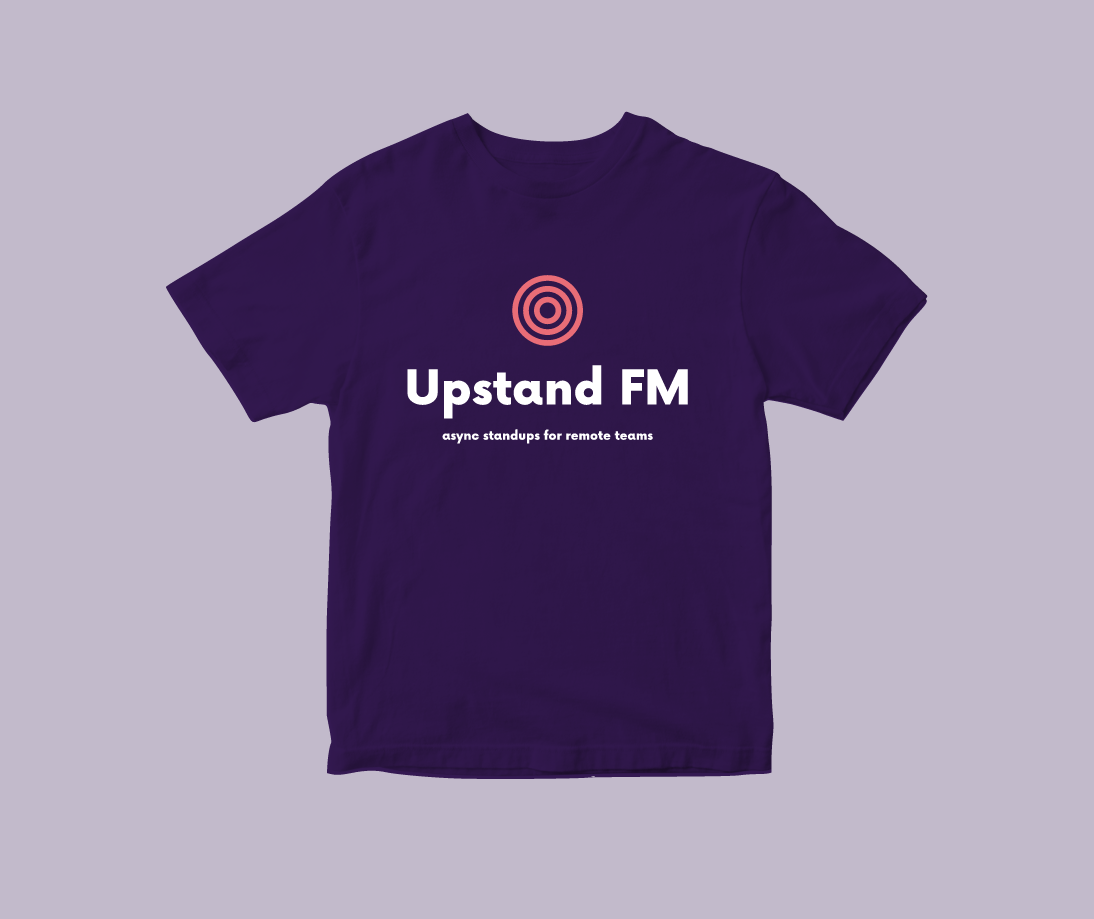
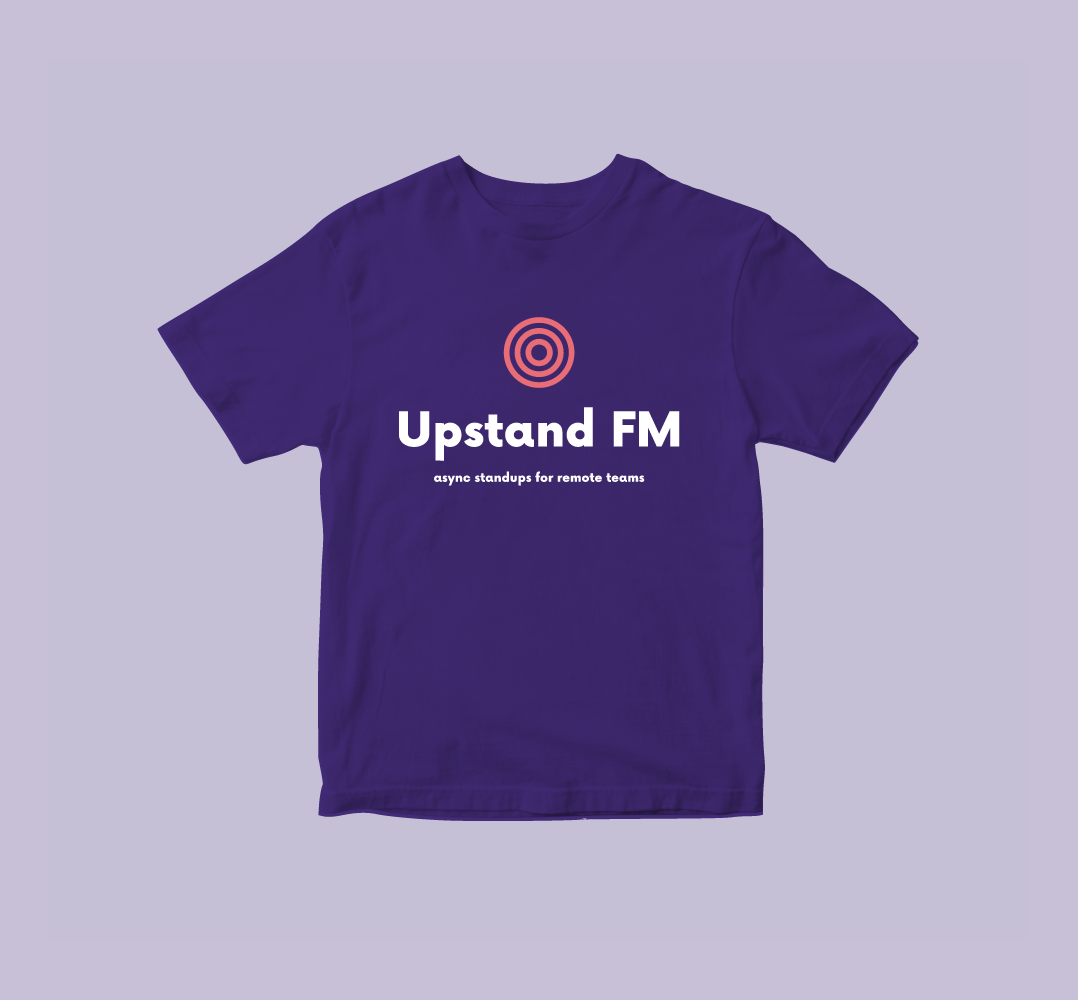
Update assets

diff --git a/README.md b/README.md
@@ -11,8 +11,8 @@ The colors and logo have been generated with [Namecheap Logomaker](https://www.n
 
 ## Colors
 
-- Logo color is **coral**: `#e96d77`
-- Primary background color is **deep purple**: `#341952`
+- Primary color is **purple**: `#422b77`
+- Accent color is **coral**: `#e96d77`
 
 ## Logo
 
@@ -22,20 +22,6 @@ It combines the concepts of a "record button" and "broadcasting waves".
 
 Multiple variations of logo/name/tagline are available:
 
-### Logo and name below each other
-
-![Logo and name below](./logo-name-below/cover.png)
-
-SVGs can be found [here](./logo-name-below).
-
-### Logo and name beside each other
-
-![Logo and name side](./logo-name-side/cover.png)
-
-SVGs can be found [here](./logo-name-side).
-
-### Logo, name and tagline below each other
-
-![Upstand FM branding](./logo-name-tagline/cover.png)
-
-SVGs can be found [here](./logo-name-tagline).
+- [Logo and name below each other](./logo-name-below)
+- [Logo and name beside each other](./logo-name-side)
+- [Logo, name and tagline below each other](./logo-name-tagline)
